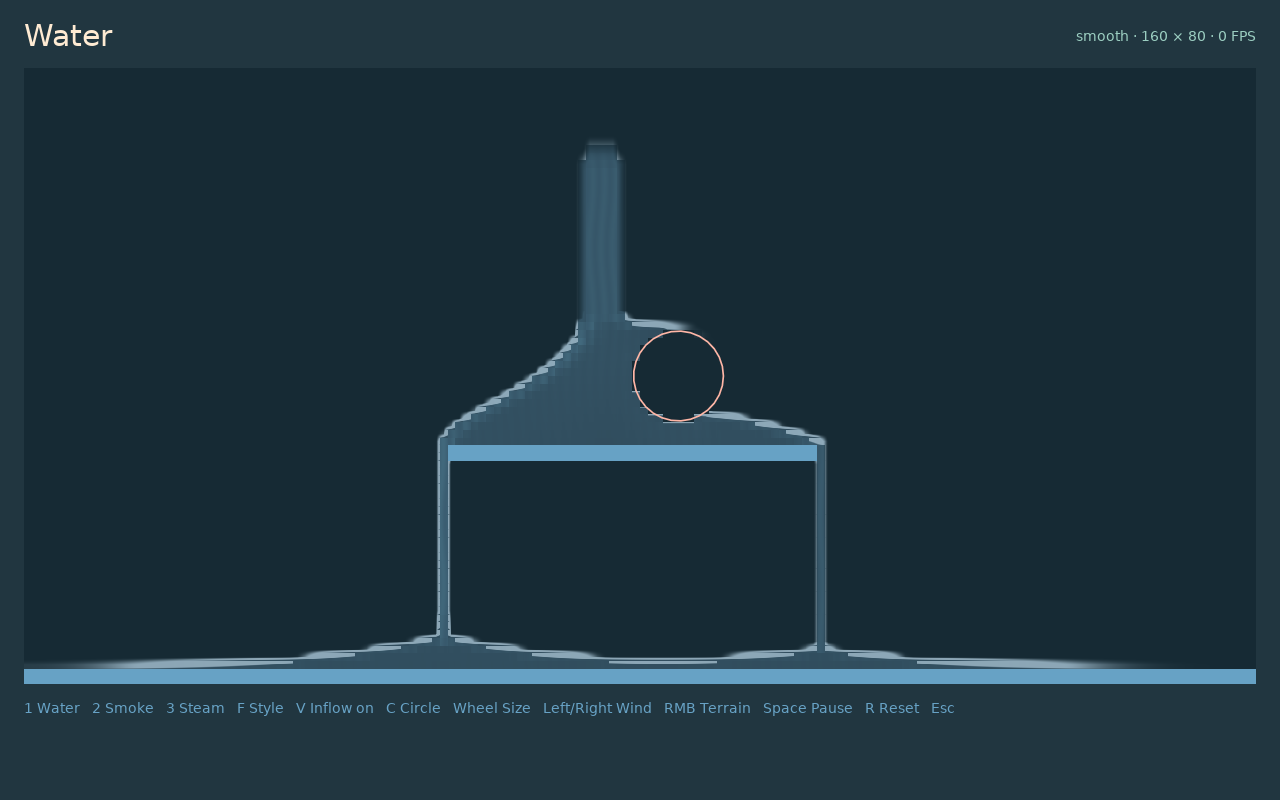
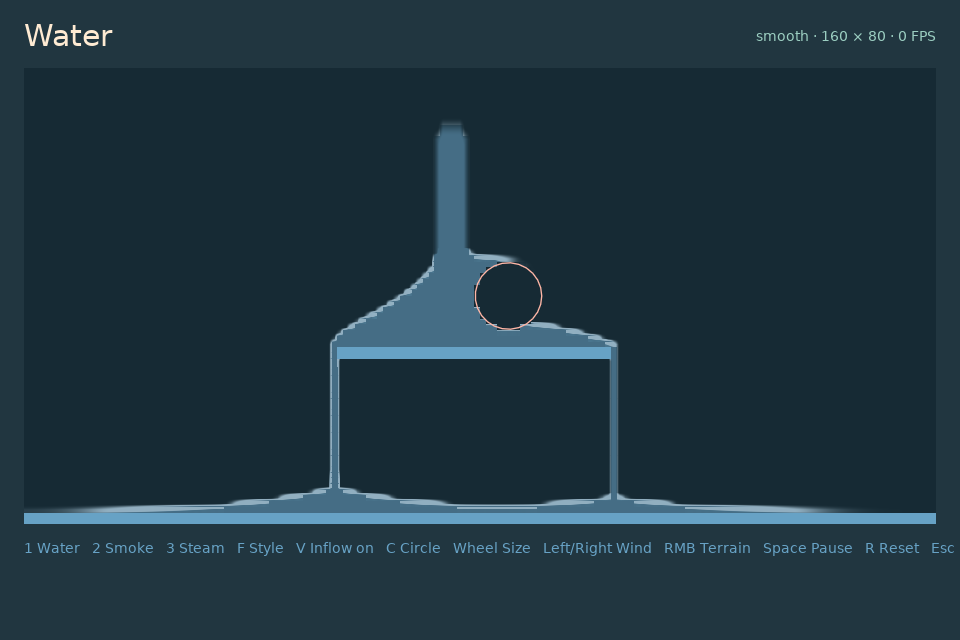
Remove internal seams from volume water

Changed region(s): [[0.0, 0.1875, 1.0, 0.9062], [0.7812, 0.0312, 1.0, 0.0625], [0.0, 0.0312, 0.125, 0.0938]]

diff --git a/docs/volumes/water.md b/docs/volumes/water.md
@@ -71,7 +71,7 @@ Grid size is `ceil(width/cellSize) × ceil(height/cellSize)`. Start with 8 pixel
 | `spread` | `0.5` | Supported lateral movement |
 | `renderStyle` | `'pixel'` | Pixel or smooth display only |
 
-Water is conservative but compressible. Small mounds, delayed settling, and cell-sized edges are expected. Use a coarse volume for the pooled body and particle emitters for droplets, mist, and spray.
+Water is conservative but compressible. Small mounds, delayed settling, and cell-sized surface steps are expected. Pixel rendering treats filled interior rows as one continuous body and applies partial-cell smoothing only to the exposed surface. Use `smooth` when the surface should hide the grid entirely, or a coarse volume for the pooled body with particle emitters for droplets, mist, and spray.
 
 ## Block the stream
 
